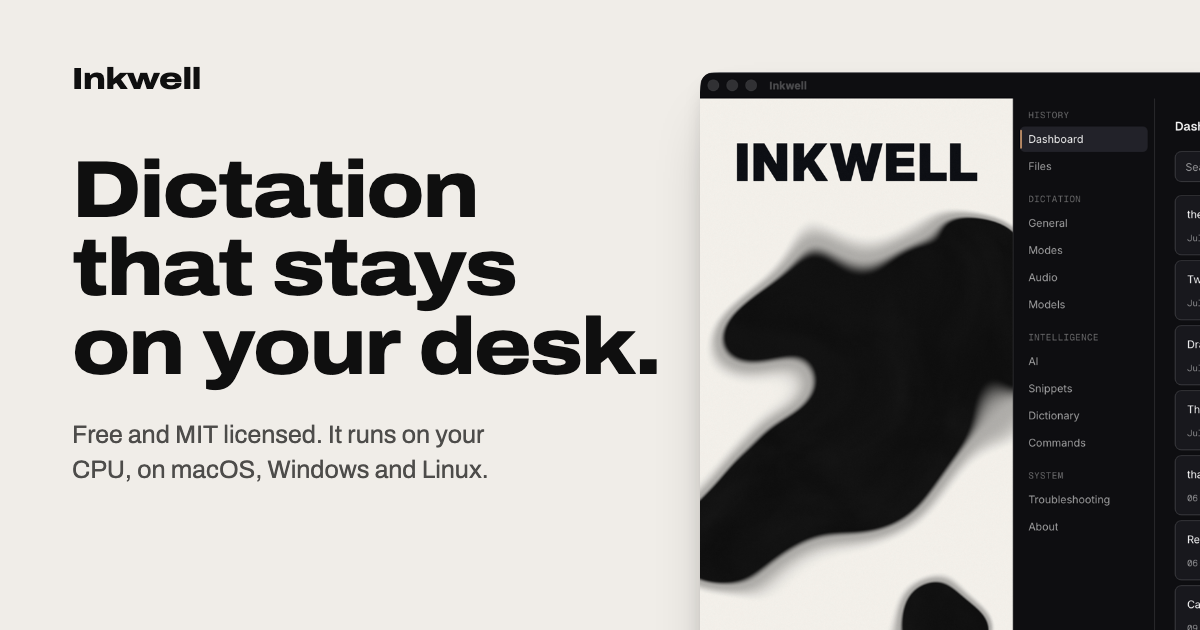
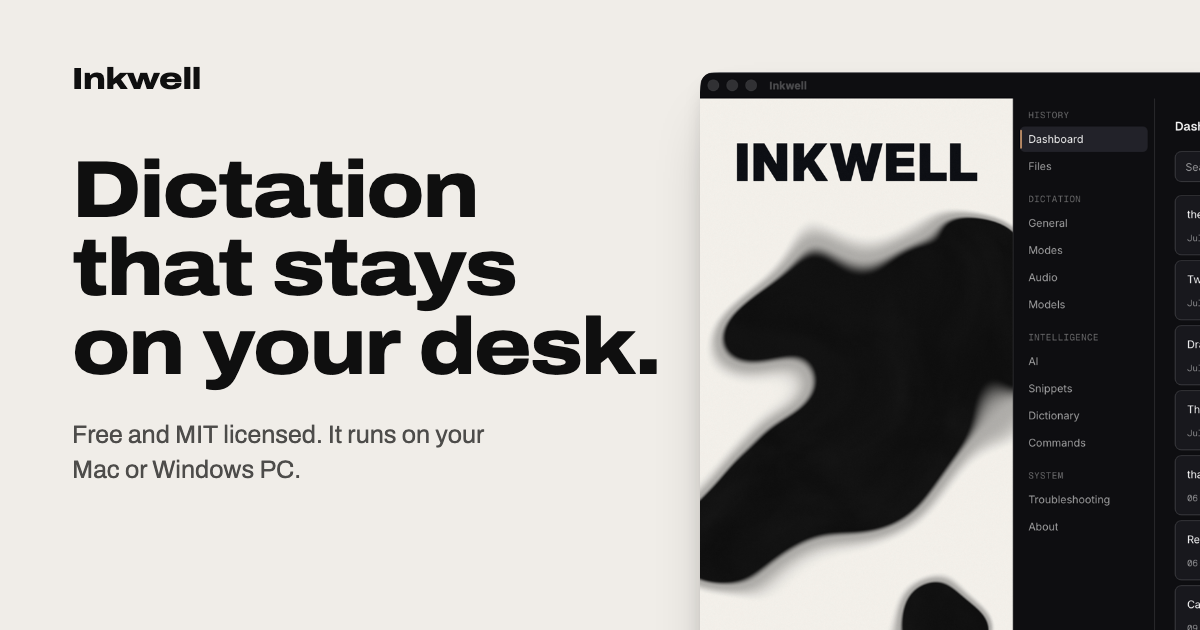
fix(homepage): the social cards no longer say Linux, and the 0.2 window is marked
Review of the release prep. The social card said Inkwell runs on macOS, Windows and Linux; it now
says the Mac or a Windows PC, re-rendered with scripts/make-og.mjs (it still crops 0.2's window).
The source of the GitHub social preview drops Linux too; its png needs Google Fonts to render and
is uploaded by hand, so both wait. The hero's image is 0.2's window: a comment marks it, and what
changes with it, for the 1.0 capture.

Changed region(s): [[0.0617, 0.7238, 0.4008, 0.7841]]

diff --git a/homepage/scripts/og/og.html b/homepage/scripts/og/og.html
@@ -29,7 +29,7 @@
   <div class="copy">
     <div class="wordmark">Inkwell</div>
     <h1>Dictation that&nbsp;stays on&nbsp;your&nbsp;desk.</h1>
-    <p>Free and MIT licensed. It runs on your CPU, on macOS, Windows and Linux.</p>
+    <p>Free and MIT licensed. It runs on your Mac or Windows PC.</p>
   </div>
   <div class="window"><img src="../../src/assets/inkwell-dashboard.png" alt=""></div>
 </body>

diff --git a/docs/media/social-preview.html b/docs/media/social-preview.html
@@ -57,6 +57,6 @@
     <div class="sub">Local-first dictation. Nothing leaves your machine.</div>
     <div class="rule"></div>
     <div class="meta">Free &nbsp;·&nbsp; MIT &nbsp;·&nbsp; No account &nbsp;·&nbsp; No telemetry</div>
-    <div class="plat">macOS &nbsp;·&nbsp; Windows &nbsp;·&nbsp; Linux</div>
+    <div class="plat">macOS &nbsp;·&nbsp; Windows</div>
   </div>
 </body></html>
